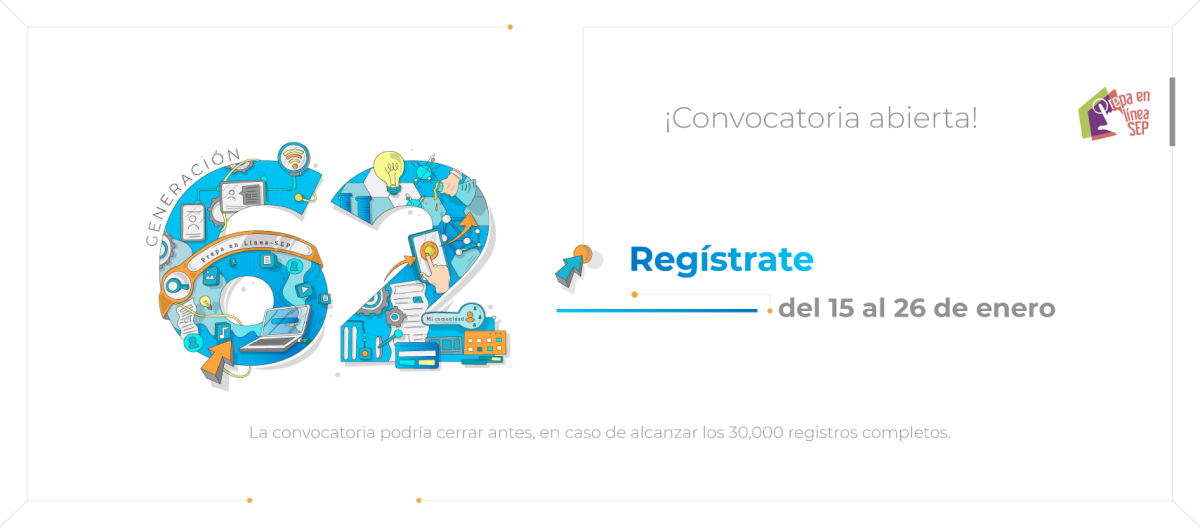
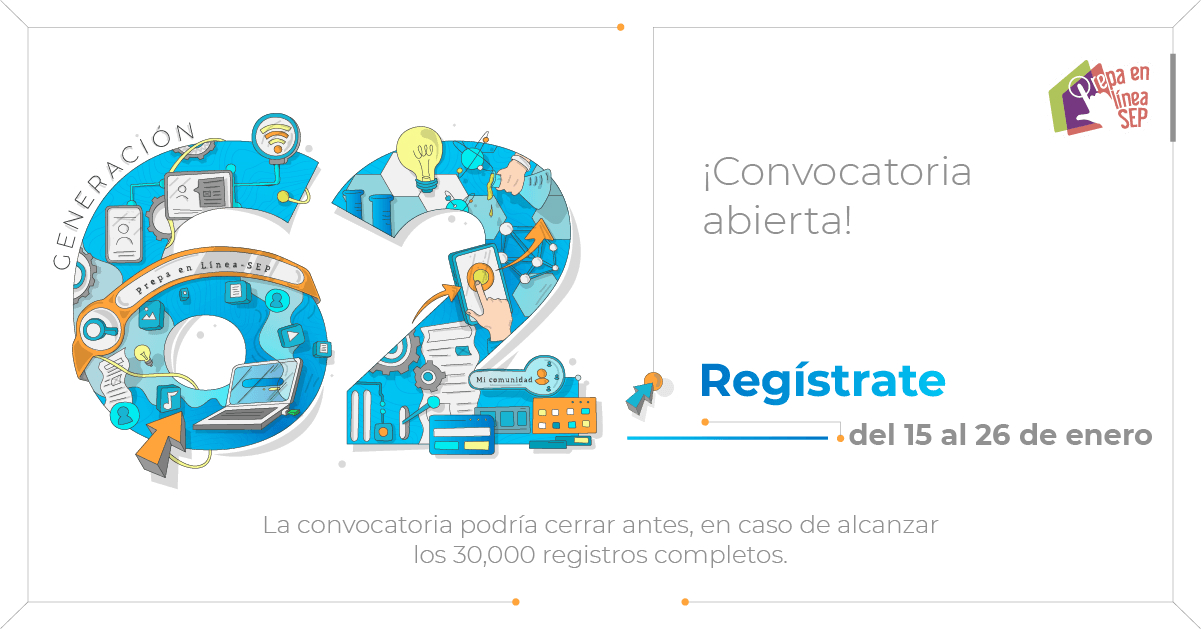
casi casi

diff --git a/index.html b/index.html
@@ -48,13 +48,13 @@
                    <article> <h4 class="titulo-registro text-center">Registro de aspirantes</h4>
                     <p class="fecha-registro">15 al 26 de enero.</p></article>
                     <div class="my-3 text-md-center">
-                        <a href="#" class="btnf btn-flip" data-back="del 15 al 24 de enero" data-front="Registrate aquí">
+                        <a href="http://registro.prepaenlinea.sep.gob.mx/registro/public/index.php/preregistro/estatus" target="_blank" class="btnf btn-flip" data-back="del 15 al 24 de enero" data-front="Registrate aquí">
                             <span class='line-1'></span>
                             <span class='line-2'></span>
                             <span class='line-3'></span>
                             <span class='line-4'></span>
                         </a>
-                        <div class="play">
+                        <div class="play d-none">
                             <a href='#'class='playBut'>
                                 <svg version="1.1"
                                     xmlns="http://www.w3.org/2000/svg" xmlns:xlink="http://www.w3.org/1999/xlink" xmlns:a="http://ns.adobe.com/AdobeSVGViewerExtensions/3.0/"
@@ -70,13 +70,13 @@
                     </div>                
                     
                     <div class="my-3 text-md-center">
-                        <a href="#" class="btnf btn-flip" data-back="Consultar" data-front="Estatus de registro">
+                        <a href="http://registro.prepaenlinea.sep.gob.mx/registro/public/index.php/estatus" target="_blank" class="btnf btn-flip" data-back="Consultar" data-front="Estatus de registro">
                             <span class='line-1'></span>
                             <span class='line-2'></span>
                             <span class='line-3'></span>
                             <span class='line-4'></span>
                         </a>  
-                        <div class="play">
+                        <div class="play d-none">
                             <a href='#'class='playBut'>
                                 <svg version="1.1"
                                     xmlns="http://www.w3.org/2000/svg" xmlns:xlink="http://www.w3.org/1999/xlink" xmlns:a="http://ns.adobe.com/AdobeSVGViewerExtensions/3.0/"
@@ -91,7 +91,7 @@
                         </div>
                     </div>                        
                 </div>
-                
+<!-- collapse convo actual -->
                 <div class="collapse mt-5" id="collapseRegistro">
                     <div class="row">
                         <hr>
@@ -103,39 +103,40 @@
                         <div class="col-12 col-md-4">
                             <p class="text-proceso">del 15 al 26 de enero</p>
                             <p class="col text-center">
-                                <a class="btn btn-home" href="#">Realiza tu registro</a>
+                                <a class="btn btn-home" href="http://registro.prepaenlinea.sep.gob.mx/registro/public/index.php/preregistro/estatus" target="_blank">Realiza tu registro</a>
                             </p>
                             <p class="text-proceso">del 15 al 26 de enero</p>
                             <p class="col text-center">
-                                <a class="btn btn-home" href="#">Consulta tu estatus</a>
+                                <a class="btn btn-home" href="http://registro.prepaenlinea.sep.gob.mx/registro/public/index.php/estatus" target="_blank">Consulta tu estatus</a>
                             </p>
                             <p class="text-proceso">del 31 de enero<br>
                                 del 4 de febrero</p>
                             <p class="col text-center">
-                                <a class="btn btn-home" href="#">Obtén tus claves de acceso</a>
+                                <a class="btn btn-home btn-off" href="#">Obtén tus claves de acceso</a>
                             </p>
                             <p class="text-proceso">del 5 de febrero<br>
-                                al 23 de marzo</p>
+                                al 3 de marzo</p>
                             <p class="col text-center">
-                                <a class="btn btn-home" href="#">Cursa el módulo propedéutico</a>
+                                <a class="btn btn-home btn-off" href="#">Cursa el módulo propedéutico</a>
                             </p>
                         </div>
                         <div class="col-12 col-md-4">
                             <p class="text-proceso">del 8 al 21 de marzo</p>
                             <p class="col text-center">
-                                <a class="btn btn-home" href="#">Consulta tus resultados</a>
+                                <a class="btn btn-home btn-off" href="#">Consulta tus resultados</a>
                             </p>
                             <p class="text-proceso">del 8 al 21 de marzo</p>
                             <p class="col text-center">
-                                <a class="btn btn-home" href="#">Realiza tu inscripción</a>
+                                <a class="btn btn-home btn-off" href="#">Realiza tu inscripción</a>
                             </p>
-                            <p class="text-proceso">del 2 al 28 de abril</p>
+                            <p class="text-proceso">del 1 al 28 de abril</p>
                             <p class="col text-center">
-                                <a class="btn btn-home" href="#">Cursa el módulo 1</a>
+                                <a class="btn btn-home btn-off" href="#">Cursa el módulo 1</a>
                             </p>
                         </div>
                     </div>
-                </div>                
+                </div>    
+<!-- collapse convo actual -->            
             </div>
               
             
@@ -209,7 +210,7 @@
                                 <p class="text-proceso">del 18 de diciembre de 2023 <br>
                                     al 28 de enero de 2024</p>
                                 <p class="col text-center">
-                                    <a class="btn btn-home" href="#">Cursa el módulo 1</a>
+                                    <a class="btn btn-home" href="https://prepaenlinea.sep.gob.mx/">Cursa el módulo 1</a>
                                 </p>                                        
                                 
                                 <a class="arrow-icon arrow-container" data-bs-toggle="collapse" href="#collapseRegistrob1" role="button" aria-expanded="false" aria-controls="collapseRegistrob1" style="top:20px">
@@ -231,43 +232,40 @@
                                 <p class="g-titulo">
                                     G60
                                 </p>
-
+<!-- collapse -->
                                 <div class="collapse mt-5" id="collapseRegistrob2">  
                                     <div class="row justify-content-center mt-5">
                                         <div class="col-12">
-                                            <p class="text-proceso">del 9 al 20 de octubre</p>
+                                            <p class="text-proceso">del 6 al 17 de noviembre</p>
                                             <p class="col text-center">
                                                 <a class="btn btn-home btn-off" href="#">Realiza tu registro</a>
                                             </p>
-                                            <p class="text-proceso">del 9 al 20 de octubre</p>
+                                            <p class="text-proceso">del 6 al 17 de noviembre</p>
                                             <p class="col text-center">
                                                 <a class="btn btn-home btn-off" href="#">Consulta tu estatus</a>
                                             </p>
-                                            <p class="text-proceso">del 25 al 29 de octubre</p>
+                                            <p class="text-proceso">del 22 al 26 de noviembre</p>
                                             <p class="col text-center">
                                                 <a class="btn btn-home btn-off" href="#">Obtén tus claves de acceso</a>
                                             </p>
-                                            <p class="text-proceso">del 30 de octubre <br>al 26 de noviembre</p>
+                                            <p class="text-proceso">del 27 de noviembre <br>al 24 de diciembre</p>
                                             <p class="col text-center">
                                                 <a class="btn btn-home btn-off" href="#">Cursa el módulo propedéutico</a>
                                             </p>
-                                            <p class="text-proceso">del 1 al 14 de diciembre</p>
-                                            <p class="col text-center">
-                                                <a class="btn btn-home btn-off" href="#">Consulta tus resultados</a>
-                                            </p>
-                                            <p class="text-proceso">del 1 al 14 de diciembre</p>
-                                            <p class="col text-center">
-                                                <a class="btn btn-home btn-off" href="#">Realiza tu inscripción</a>
-                                            </p>
+                                            
                                         </div>
                                     </div>
                                 </div>
+<!-- collapse -->
 
-                                <p class="text-proceso">del 27 de noviembre de 2023 <br>
-                                    al 24 de diciembre de 2023</p>
+                                <p class="text-proceso">del 12 al 25 de enero</p>
                                 <p class="col text-center">
-                                    <a class="btn btn-home" href="#">Cursa el módulo propedéutico</a>
-                                </p>  
+                                    <a class="btn btn-home" href="https://prepaenlinea.sep.gob.mx/publicacion-de-resultados/" target="_blank">Consulta tus resultados</a>
+                                </p>
+                               
+                                <p class="col text-center">
+                                    <a class="btn btn-home" href="https://prepaenlinea.sep.gob.mx/publicacion-de-resultados/" target="_blank">Realiza tu inscripción</a>
+                                </p>
                                 
                                 <a class="arrow-icon arrow-container" data-bs-toggle="collapse" href="#collapseRegistrob2" role="button" aria-expanded="false" aria-controls="collapseRegistrob2" style="top:20px">
                                     <span class="left-bar"></span>
@@ -291,27 +289,24 @@
                                 <div class="collapse mt-5" id="collapseRegistrob3">  
                                     <div class="row justify-content-center mt-5">
                                         <div class="col-12">
-                                            <p class="text-proceso">del 9 al 20 de octubre</p>
+                                            <p class="text-proceso">del 4 al 15 de diciembre</p>
                                             <p class="col text-center">
                                                 <a class="btn btn-home btn-off" href="#">Realiza tu registro</a>
                                             </p>
-                                            <p class="text-proceso">del 9 al 20 de octubre</p>
+                                            <p class="text-proceso">del 4 al 15 de diciembre</p>
                                             <p class="col text-center">
                                                 <a class="btn btn-home btn-off" href="#">Consulta tu estatus</a>
                                             </p>
-                                            <p class="text-proceso">del 25 al 29 de octubre</p>
+                                            <p class="text-proceso">del 20 al 24 de diciembre</p>
                                             <p class="col text-center">
                                                 <a class="btn btn-home btn-off" href="#">Obtén tus claves de acceso</a>
                                             </p>
-                                            <p class="text-proceso">del 30 de octubre <br>al 26 de noviembre</p>
-                                            <p class="col text-center">
-                                                <a class="btn btn-home btn-off" href="#">Cursa el módulo propedéutico</a>
-                                            </p>
-                                            <p class="text-proceso">del 1 al 14 de diciembre</p>
+                                            
+                                            <p class="text-proceso">del 9 al 2 de febrero</p>
                                             <p class="col text-center">
                                                 <a class="btn btn-home btn-off" href="#">Consulta tus resultados</a>
                                             </p>
-                                            <p class="text-proceso">del 1 al 14 de diciembre</p>
+                                            <p class="text-proceso">del 9 al 2 de febrero</p>
                                             <p class="col text-center">
                                                 <a class="btn btn-home btn-off" href="#">Realiza tu inscripción</a>
                                             </p>
@@ -319,13 +314,10 @@
                                     </div>
                                 </div>
 
-                                <p class="text-proceso">del 4 al 15 <br>de diciembre de 2023</p>
-                                <p class="col text-center">
-                                    <a class="btn btn-home" href="#">Realiza tu registro</a>
-                                </p>
-                                <p class="col text-center">
-                                    <a class="btn btn-home" href="#">Consulta tu estatus</a>
-                                </p>
+                                <p class="text-proceso">del 8 de enero <br>al 4 de febrero</p>
+                                            <p class="col text-center">
+                                                <a class="btn btn-home" href="#">Cursa el módulo propedéutico</a>
+                                            </p>
 
                                 <a class="arrow-icon arrow-container" data-bs-toggle="collapse" href="#collapseRegistrob3" role="button" aria-expanded="false" aria-controls="collapseRegistrob3" style="top:20px">
                                     <span class="left-bar"></span>
@@ -779,7 +771,7 @@
                 <div class="modal-body">
                     <div class="container fluid">
                         <div class="row justify-content-center mt-4">
-                            <iframe src="kit-62/guia_de_registro_g62.pdf" width="100%" height="600px"></iframe>
+                            <iframe src="https://prepaenlinea.sep.gob.mx/convocatorias-2024/kit-62/guia_de_registro_g62.pdf" width="100%" height="600px"></iframe>
                         </div>
                 
                         <div class="row justify-content-center mt-4">
@@ -809,10 +801,10 @@
                 </div>
                 <div class="modal-body">
                     <div class="container fluid">
-                        <div class="row justify-content-center mt-4">
-                            <div class="col-12 col-md-4"><img src="img/Ilustracion.png" alt="62" class="img-fluid" width="360"></div>
-                            <div class="col-12 col-md-4"><img src="img/Ilustracion.png" alt="62" class="img-fluid" width="360"></div>
-                            <div class="col-12 col-md-4"><img src="img/Ilustracion.png" alt="62" class="img-fluid" width="360"></div>
+                        <div class="row justify-content-center my-5">
+                            <div class="col-12 col-md-4"><img src="img/calen_63.png" alt="63" class="img-fluid" width="360"></div>
+                            <div class="col-12 col-md-4"><img src="img/calen_64.png" alt="64" class="img-fluid" width="360"></div>
+                            <div class="col-12 col-md-4"><img src="img/calen_65.png" alt="65" class="img-fluid" width="360"></div>
                         </div>
                     </div>
                 </div>

diff --git a/css/estilos.css b/css/estilos.css
@@ -93,6 +93,7 @@ h2{
     text-align: center;
     font-family: "Montserrat", sans-serif;
     line-height: 80px;
+    margin-top: 15px;
 }
 
 .button-reg {
